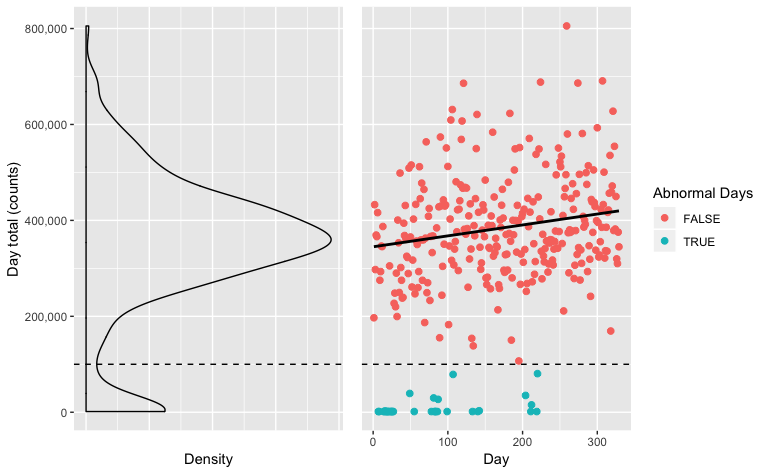
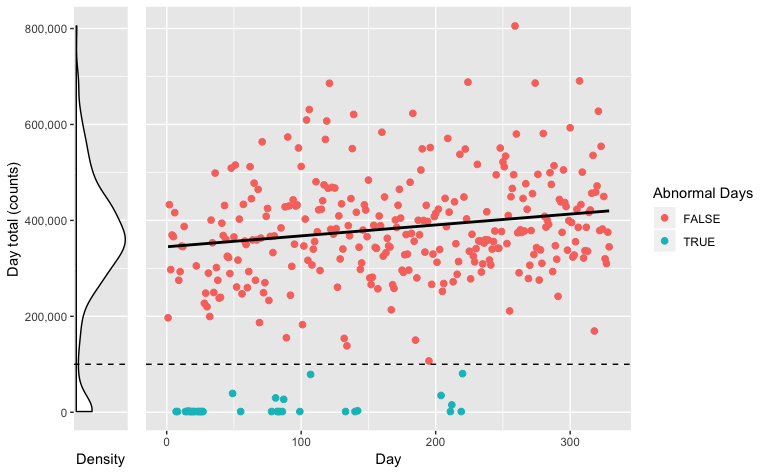
add statistical analysis of results part

diff --git a/p8105_mtp_zf2213.md b/p8105_mtp_zf2213.md
@@ -14,27 +14,29 @@ This project aims at using both ways to analyse the accelerometer
 records of a congestive heart failure (CHF) patient, trying to wrangle
 valuable behaviour information about the patient.
 
-## Methods
+## Data and Methods
+
+  - Patient information
 
 The patient is a 63-year old male with BMI 25, who was diagnosed with
-congestive heart failure.
-
-Consent from the patient is assumed since this information has been
+congestive heart failure at Columbia University Medical Center. Consent
+from the patient is assumed since this information has already been
 public to whole class.
 
-The purpose of this projects is using simple r programming with
-tidyverse packages to take a look at
+  - Methods
 
-### loading data
+The methods of this project are using simple r programming skills along
+with tidyverse packages to take a look at the activity distribution of
+days across whole period, within a day, and across days in a week.
 
-Columns are values rather than variables, load data and gather the
-columns
+## Results
 
-The dataset records every minute in a day. There are in total 329 days.
+### Loading and tidying data
 
-(Write more about dataset, make variable name more reasonable)
-
-### Data tidying
+Columns are values rather than variables, so the first step to tidying
+is loading the data and gathering the columns into the minutes (epoch)
+of the days. Then rename some variables, make the variables with
+reasonable data type, arrange the columns and rows.
 
 ``` r
 # loading data and make to tall table
@@ -57,43 +59,55 @@ activity <- read_csv("./data/p8105_mtp_data.csv") %>%
     select(day, week, day_in_week, minute_in_day, counts)
 ```
 
-## Results
+After tidying, each row records the day, week, day\_in\_week,
+minute\_in\_day, counts of an activity of a minute, there are in total
+473760 minutes of 329 days.
 
-### Across the day
+### The total activity in each day
 
 ``` r
 activity_day_total <- activity %>% 
 # aggregate across minutes to create total activity
     group_by(day, day_in_week, week) %>% 
+    # get total activity in the days
   summarize(day_total = sum(counts))
 
-# the distribution of total activity in a day looks as this. However, there are some outliers that should not include in 
-
+# necessary package to put two ggplot elements together
 library(patchwork)
 
+# density plot of distribution of total activity across days
 density_total <- activity_day_total %>% 
+    # label the outliers
   group_by(outliers = day_total > 100000) %>% 
+    # plot the density plot
     ggplot(aes(x = day_total)) +
-      geom_density(alpha = 0.3) +
+      geom_density(fill = "white") +
+      # draw a line to label the cutoff
       geom_vline(xintercept = 100000, linetype = 2) +
+      # make coordinator flip
       coord_flip() +
+      # label axis
       labs(
         x = "Day total (counts)",
         y = "Density"
       ) +
+      # ticks labels (before flip)
       scale_x_continuous(labels = scales::comma) +
-      theme(
-        axis.text.x = element_blank(),
-        axis.ticks.x = element_blank()
-      )
+      scale_y_continuous(breaks = c()) 
 
 # day total counts over time
 scatter_total <- activity_day_total %>%
+    # group by outliers
     group_by(abnormal_day = day_total < 100000) %>%
+    # plot scatterplot
     ggplot(aes(x = day, y = day_total, color = abnormal_day)) +
+      # scatterplot
       geom_point(size = 2) +
+      # draw a line for cutoff
       geom_hline(yintercept = 100000, linetype = 2) +
+      # get regression line for the days (exclude outliers)
       geom_smooth(method = "lm", aes(linetype = abnormal_day), color = "black", show.legend = FALSE, se = FALSE) +
+      # labels, ticks, axis, titles, etc...
       scale_linetype_manual(values = c(1, 0)) +
       labs(x = "Day", color = "Abnormal Days", fill = "Abnormal Day") +
       theme(
@@ -102,16 +116,24 @@ scatter_total <- activity_day_total %>%
        axis.text.y = element_blank()
       )
 
-density_total + scatter_total
+# put two plots together
+density_total + scatter_total + plot_layout(widths = c(0.2, 1.8))
 ```
 
 <img src="p8105_mtp_zf2213_files/figure-gfm/unnamed-chunk-1-1.png" width="100%" />
 
-As you can see in the
+It turns out that in some days the total activity are extremely low,
+they are actually missing days (refer to supplementary material) of this
+time series observations. For statistical analysis, it would be better
+removing NAs.
+
+Null hypothesis: slope is 0. Alternative hypothesis: slope is not equal
+to 0. Significance level: 0.01.
 
 ``` r
-summary(lm(day ~ day_total,
-         data = activity_day_total %>% filter(day_total > 100000)))
+# get linear regression analysis
+(stats_day_total <- summary(lm(day ~ day_total,
+         data = activity_day_total %>% filter(day_total > 100000))))
 ```
 
     ## 
@@ -134,9 +156,15 @@ summary(lm(day ~ day_total,
     ## Multiple R-squared:  0.03959,    Adjusted R-squared:  0.03631 
     ## F-statistic: 12.08 on 1 and 293 DF,  p-value: 0.0005877
 
+The p-value of correlation of total activities over time is 5.8810^{-4}.
+So at 0.01 significance level, we have enough evidence to reject the
+null hypothesis and conclude that the patient became more active over
+time.
+
 ``` r
 # across week, show the distribution of activities for each day in a week
 activity_day_total %>%
+  # remove outliers
     filter(day_total > 100000) %>% 
     ggplot(aes(y = day_total, x = day, group = day_in_week)) +
       geom_boxplot() +
